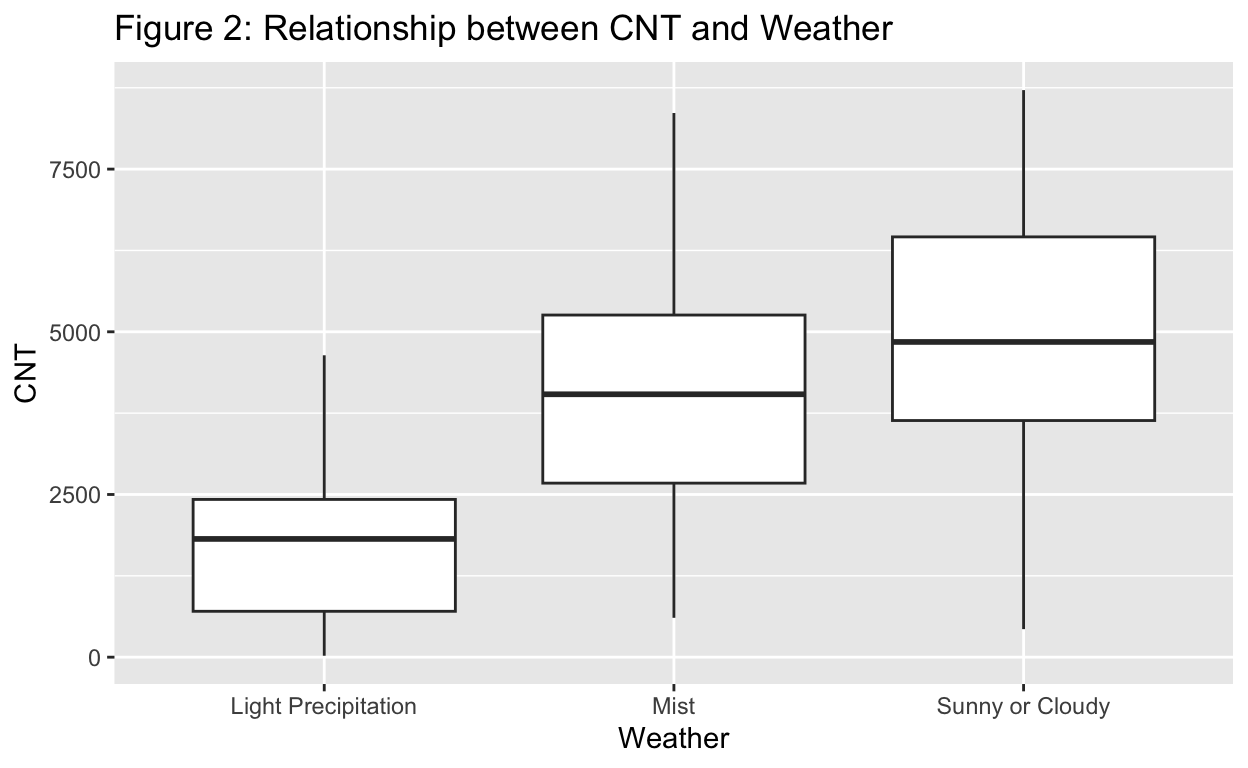
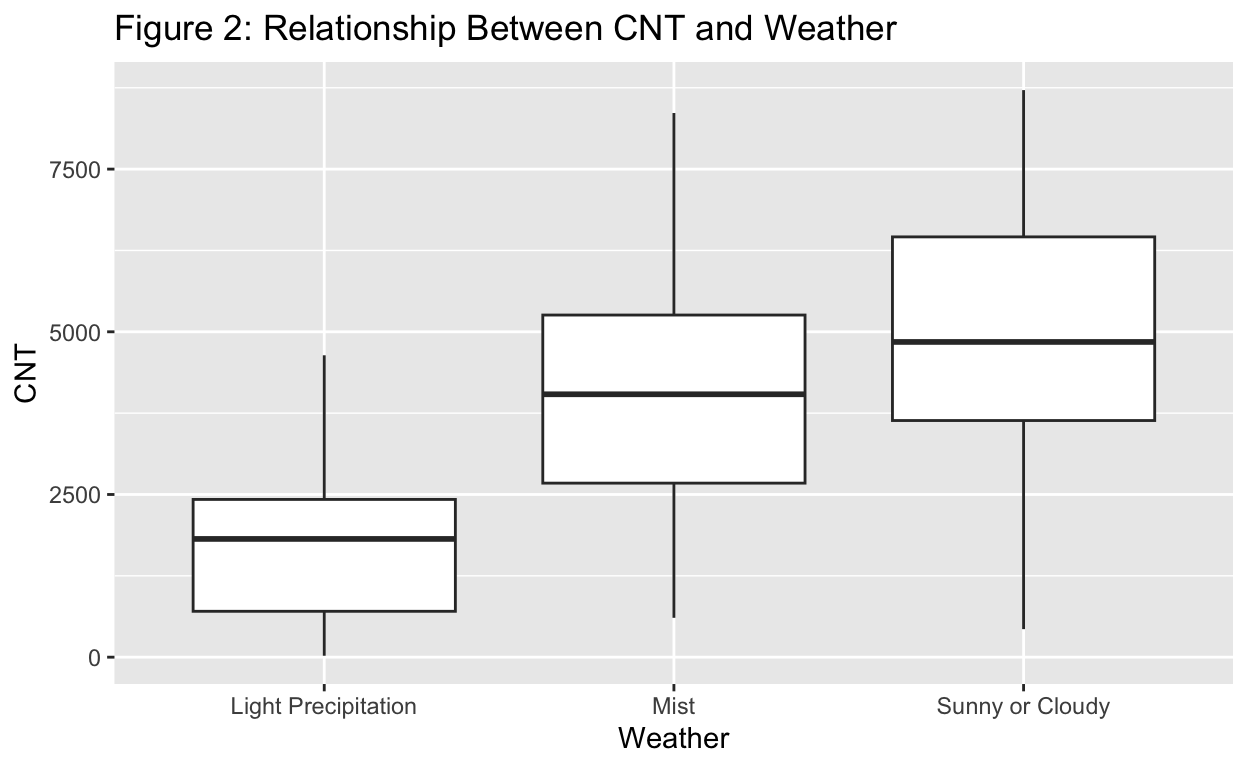
finish data and result part

Changed region(s): [[0.375, 0.0, 0.7188, 0.0625]]

diff --git a/index.html b/index.html
@@ -1631,7 +1631,7 @@ F-statistic: 70.73 on 1 and 729 DF,  p-value: &lt; 2.2e-16</code></pre>
 <span>  <span class='op'>)</span> <span class='op'>|&gt;</span></span>
 <span>  <span class='fu'><a href='https://ggplot2.tidyverse.org/reference/ggplot.html'>ggplot</a></span><span class='op'>(</span><span class='fu'><a href='https://ggplot2.tidyverse.org/reference/aes.html'>aes</a></span><span class='op'>(</span>x <span class='op'>=</span> <span class='va'>weather</span>, y <span class='op'>=</span> <span class='va'>cnt</span><span class='op'>)</span><span class='op'>)</span> <span class='op'>+</span></span>
 <span>  <span class='fu'><a href='https://ggplot2.tidyverse.org/reference/geom_boxplot.html'>geom_boxplot</a></span><span class='op'>(</span><span class='op'>)</span> <span class='op'>+</span></span>
-<span>  <span class='fu'><a href='https://ggplot2.tidyverse.org/reference/labs.html'>labs</a></span><span class='op'>(</span>title <span class='op'>=</span> <span class='st'>"Figure 2: Relationship between CNT and Weather"</span>,</span>
+<span>  <span class='fu'><a href='https://ggplot2.tidyverse.org/reference/labs.html'>labs</a></span><span class='op'>(</span>title <span class='op'>=</span> <span class='st'>"Figure 2: Relationship Between CNT and Weather"</span>,</span>
 <span>       x <span class='op'>=</span> <span class='st'>"Weather"</span>,</span>
 <span>       y <span class='op'>=</span> <span class='st'>"CNT"</span><span class='op'>)</span></span></code></pre>
 </div>
@@ -1676,7 +1676,7 @@ F-statistic: 109.4 on 6 and 724 DF,  p-value: &lt; 2.2e-16</code></pre>
 <pre class="sourceCode r"><code class="sourceCode r"><span><span class='va'>df</span> <span class='op'>|&gt;</span></span>
 <span>  <span class='fu'><a href='https://ggplot2.tidyverse.org/reference/ggplot.html'>ggplot</a></span><span class='op'>(</span><span class='fu'><a href='https://ggplot2.tidyverse.org/reference/aes.html'>aes</a></span><span class='op'>(</span>x <span class='op'>=</span> <span class='va'>atemp</span>, y <span class='op'>=</span> <span class='va'>cnt</span><span class='op'>)</span><span class='op'>)</span> <span class='op'>+</span></span>
 <span>  <span class='fu'><a href='https://ggplot2.tidyverse.org/reference/geom_point.html'>geom_point</a></span><span class='op'>(</span><span class='op'>)</span> <span class='op'>+</span></span>
-<span>  <span class='fu'><a href='https://ggplot2.tidyverse.org/reference/geom_smooth.html'>geom_smooth</a></span><span class='op'>(</span>method <span class='op'>=</span> <span class='st'>"loess"</span>, se <span class='op'>=</span> <span class='cn'>FALSE</span><span class='op'>)</span> <span class='op'>+</span></span>
+<span>  <span class='fu'><a href='https://ggplot2.tidyverse.org/reference/geom_smooth.html'>geom_smooth</a></span><span class='op'>(</span>method <span class='op'>=</span> <span class='st'>"lm"</span>, se <span class='op'>=</span> <span class='cn'>FALSE</span><span class='op'>)</span> <span class='op'>+</span></span>
 <span>  <span class='fu'><a href='https://ggplot2.tidyverse.org/reference/labs.html'>labs</a></span><span class='op'>(</span>title <span class='op'>=</span> <span class='st'>"Figure 3: Regression of CNT on Feeling Temperature"</span>,</span>
 <span>       x <span class='op'>=</span> <span class='st'>"Normalized feeling temperature"</span>,</span>
 <span>       y <span class='op'>=</span> <span class='st'>"CNT"</span><span class='op'>)</span></span></code></pre>
